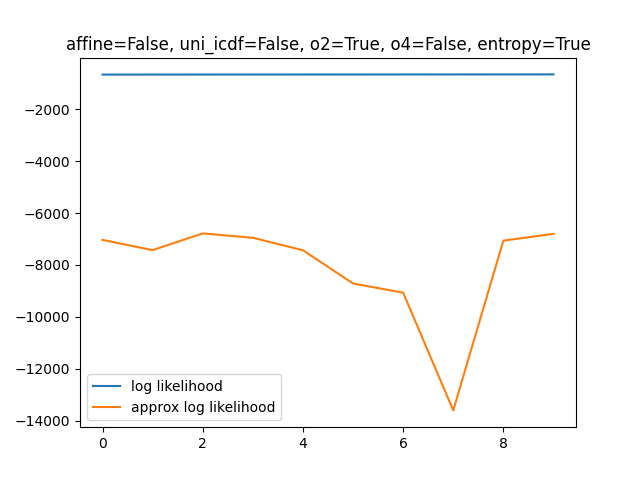
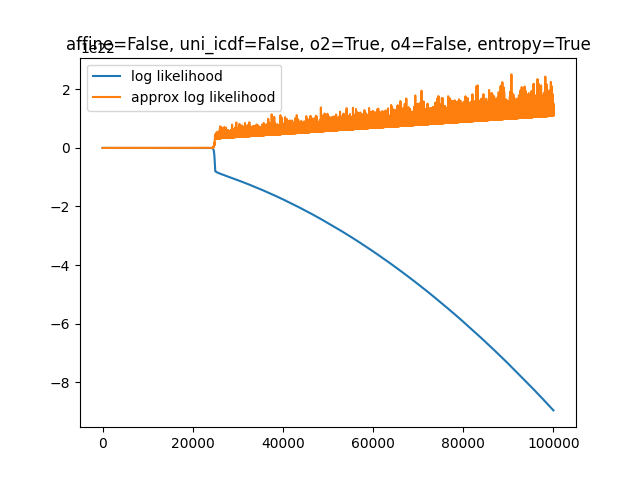
some updates

diff --git a/utils.py b/utils.py
@@ -22,7 +22,7 @@ class Generator(nn.Module):
         return q.icdf(epsU)
 
     def two_modes_icdf(self, epsU):
-        weights = np.log(self.softmax_weights.detach().numpy())
+        weights = np.exp(self.softmax_weights.detach().numpy())
         mu_q = self.mu_q.detach().numpy()
         log_sigma_q = self.log_sigma_q.detach().numpy()
         if epsU < weights[0]:
@@ -34,7 +34,7 @@ class Generator(nn.Module):
         return Variable(torch.Tensor(sample))
 
     def gmm_logprob(self, epsN):
-        mix = torch.distributions.Categorical(torch.log(self.softmax_weights))
+        mix = torch.distributions.Categorical(torch.exp(self.softmax_weights))
         comp = torch.distributions.Normal(
             self.mu_q, torch.exp(self.log_sigma_q))
         gmm = torch.distributions.MixtureSameFamily(mix, comp)

diff --git a/params3.py b/params3.py
@@ -1,5 +1,5 @@
 
-epochs = 10
+epochs = 65000
 learning_rate = 1e-3
 affine = False
 uni_icdf = False
